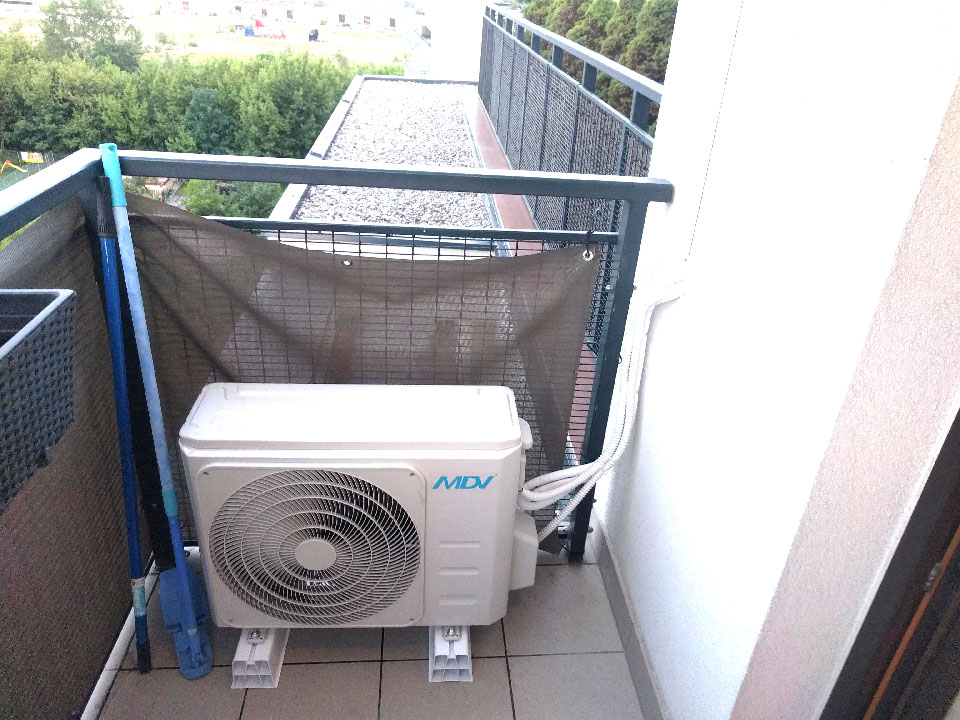
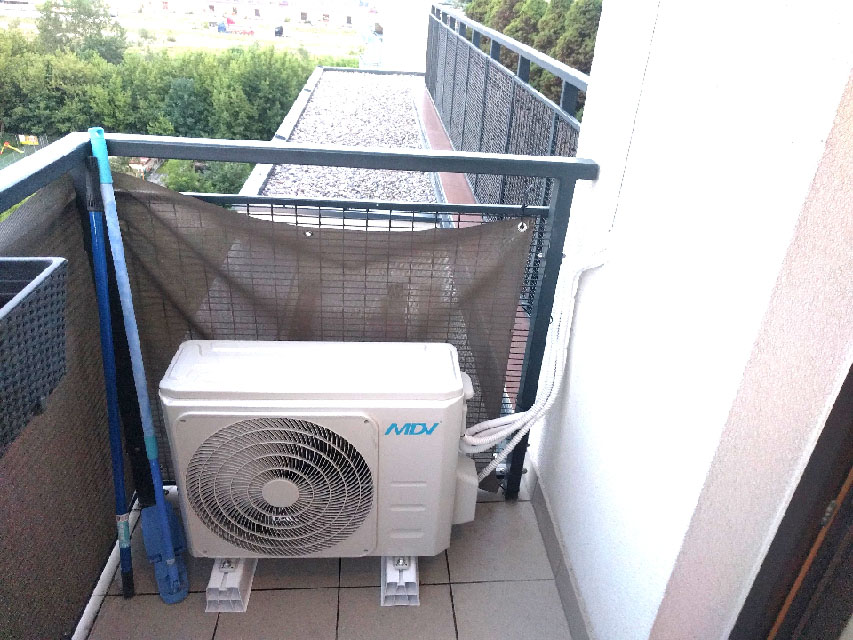
fix: fix images for retina display

diff --git a/src/components/realizacji/carousel/Carousel.tsx b/src/components/realizacji/carousel/Carousel.tsx
@@ -7,19 +7,19 @@ import scss from './Carousel.module.scss'
 
 //import img1 from '../../../../access/img/ourWork/1 (1).jpg'
 //import img3 from '../../../../access/img/ourWork/1 (3).jpg'
-import img4 from '../../../../access/img/ourWork/1_(4).jpg'
+import img4 from '../../../../access/img/ourWork/1_(4)small.jpg'
 //import img5 from '../../../../access/img/ourWork/1 (5).jpg'
 //import img8 from '../../../../access/img/ourWork/1 (8).jpg'
 //import img9 from '../../../../access/img/ourWork/1 (9).jpg'
-import img10 from '../../../../access/img/ourWork/1_(10).jpg'
-import img11 from '../../../../access/img/ourWork/1_(11).jpg'
+import img10 from '../../../../access/img/ourWork/1_(10)small.jpg'
+import img11 from '../../../../access/img/ourWork/1_(11)small.jpg'
 //import img14 from '../../../../access/img/ourWork/1 (14).jpg'
 //import img15 from '../../../../access/img/ourWork/1 (15).jpg'
 //import img16 from '../../../../access/img/ourWork/1 (16).jpg'
-import img17 from '../../../../access/img/ourWork/1_(17).jpg'
+import img17 from '../../../../access/img/ourWork/1_(17)small.jpg'
 //import img18 from '../../../../access/img/ourWork/1 (18).jpg'
 //import img19 from '../../../../access/img/ourWork/1 (19).jpg'
-import img21 from '../../../../access/img/ourWork/1_(21).jpg'
+import img21 from '../../../../access/img/ourWork/1_(21)small.jpg'
 //import img24 from '../../../../access/img/ourWork/1 (24).jpg'
 //import img26 from '../../../../access/img/ourWork/1 (26).jpg'
 import { v1 } from 'uuid'
